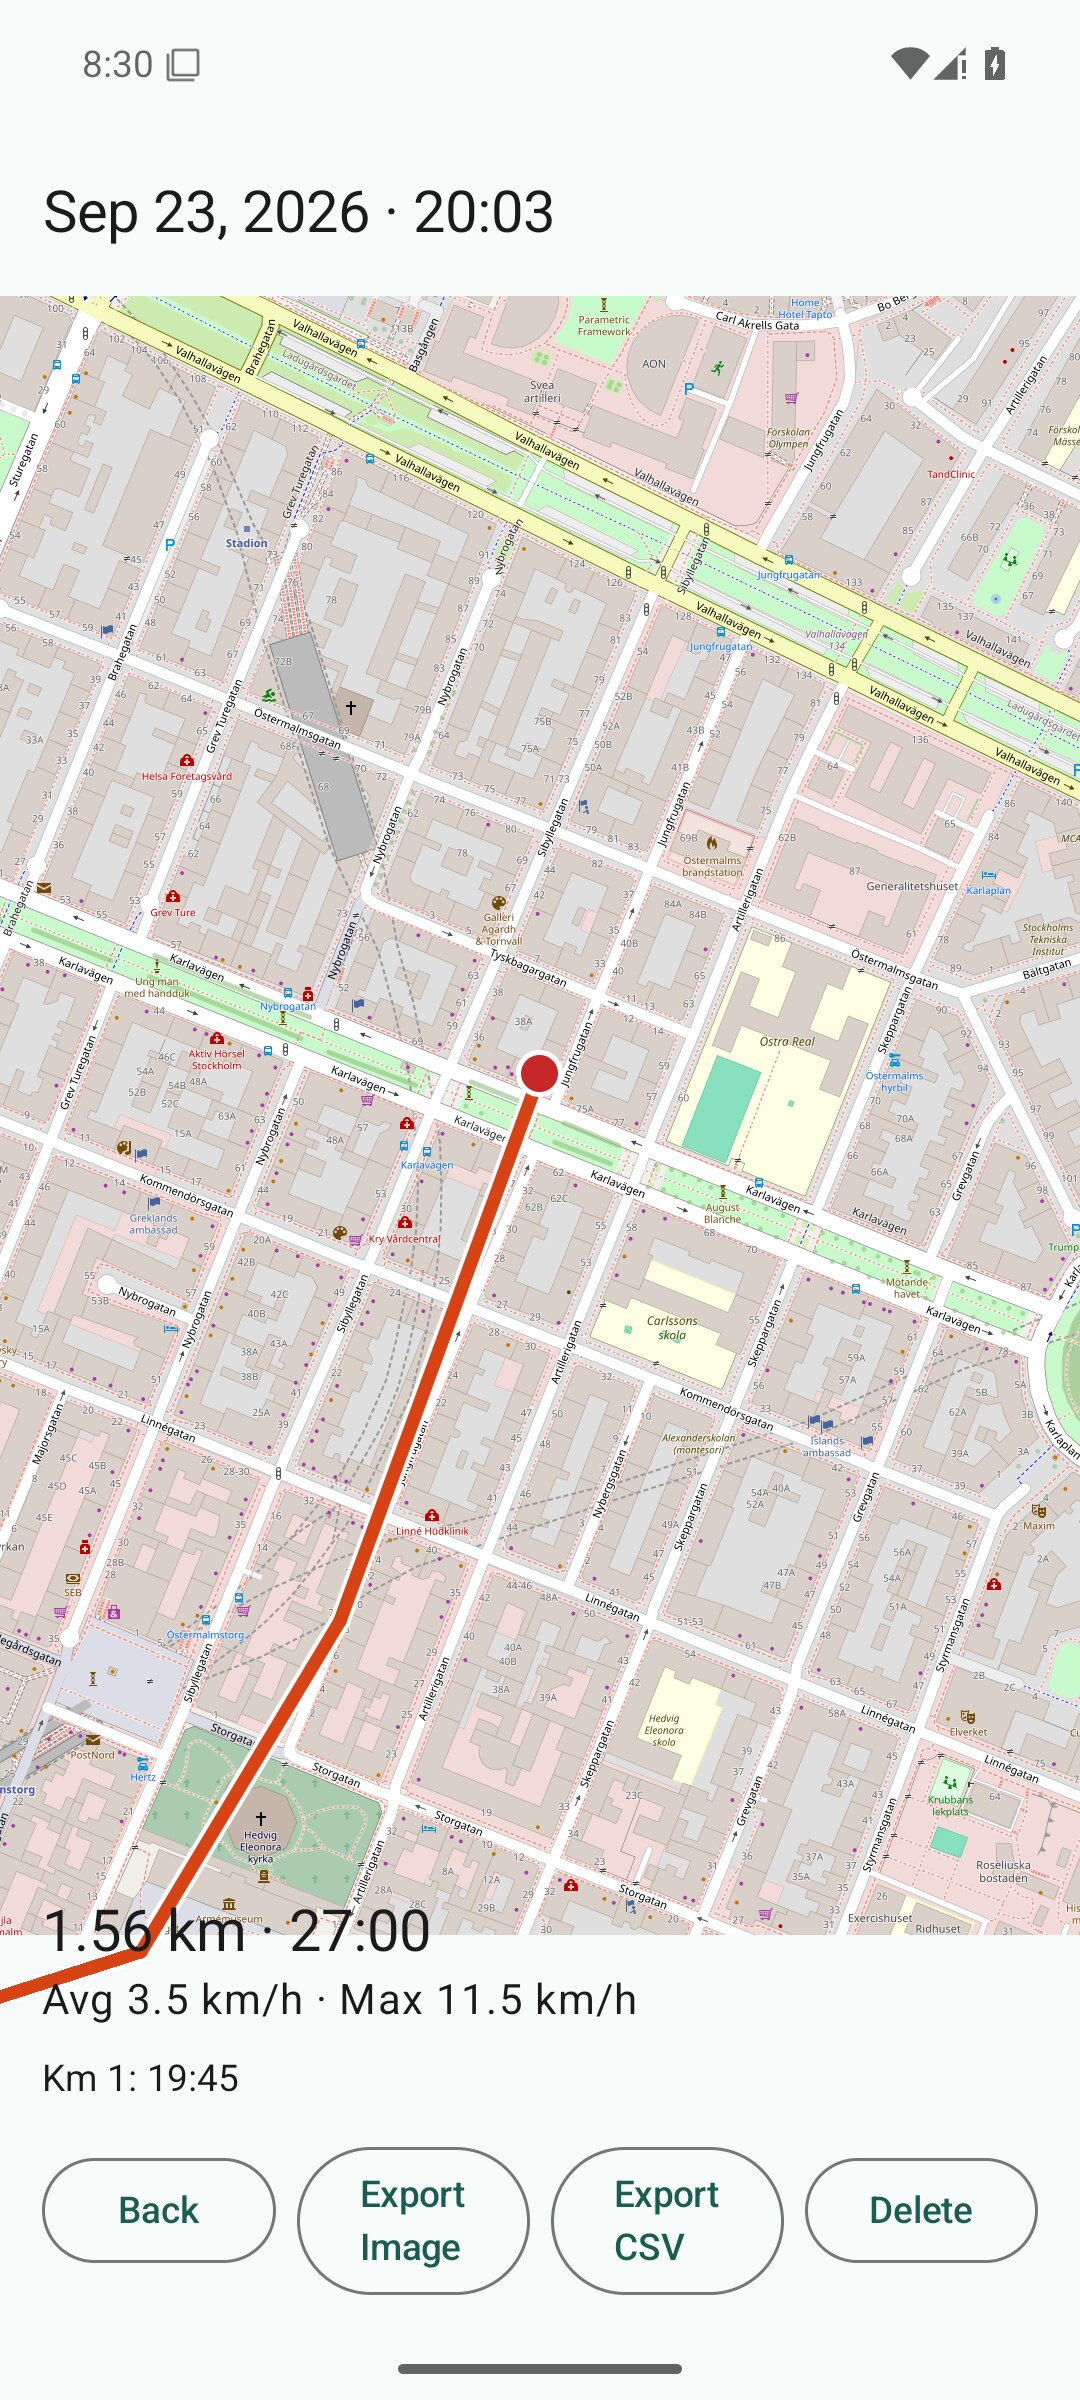
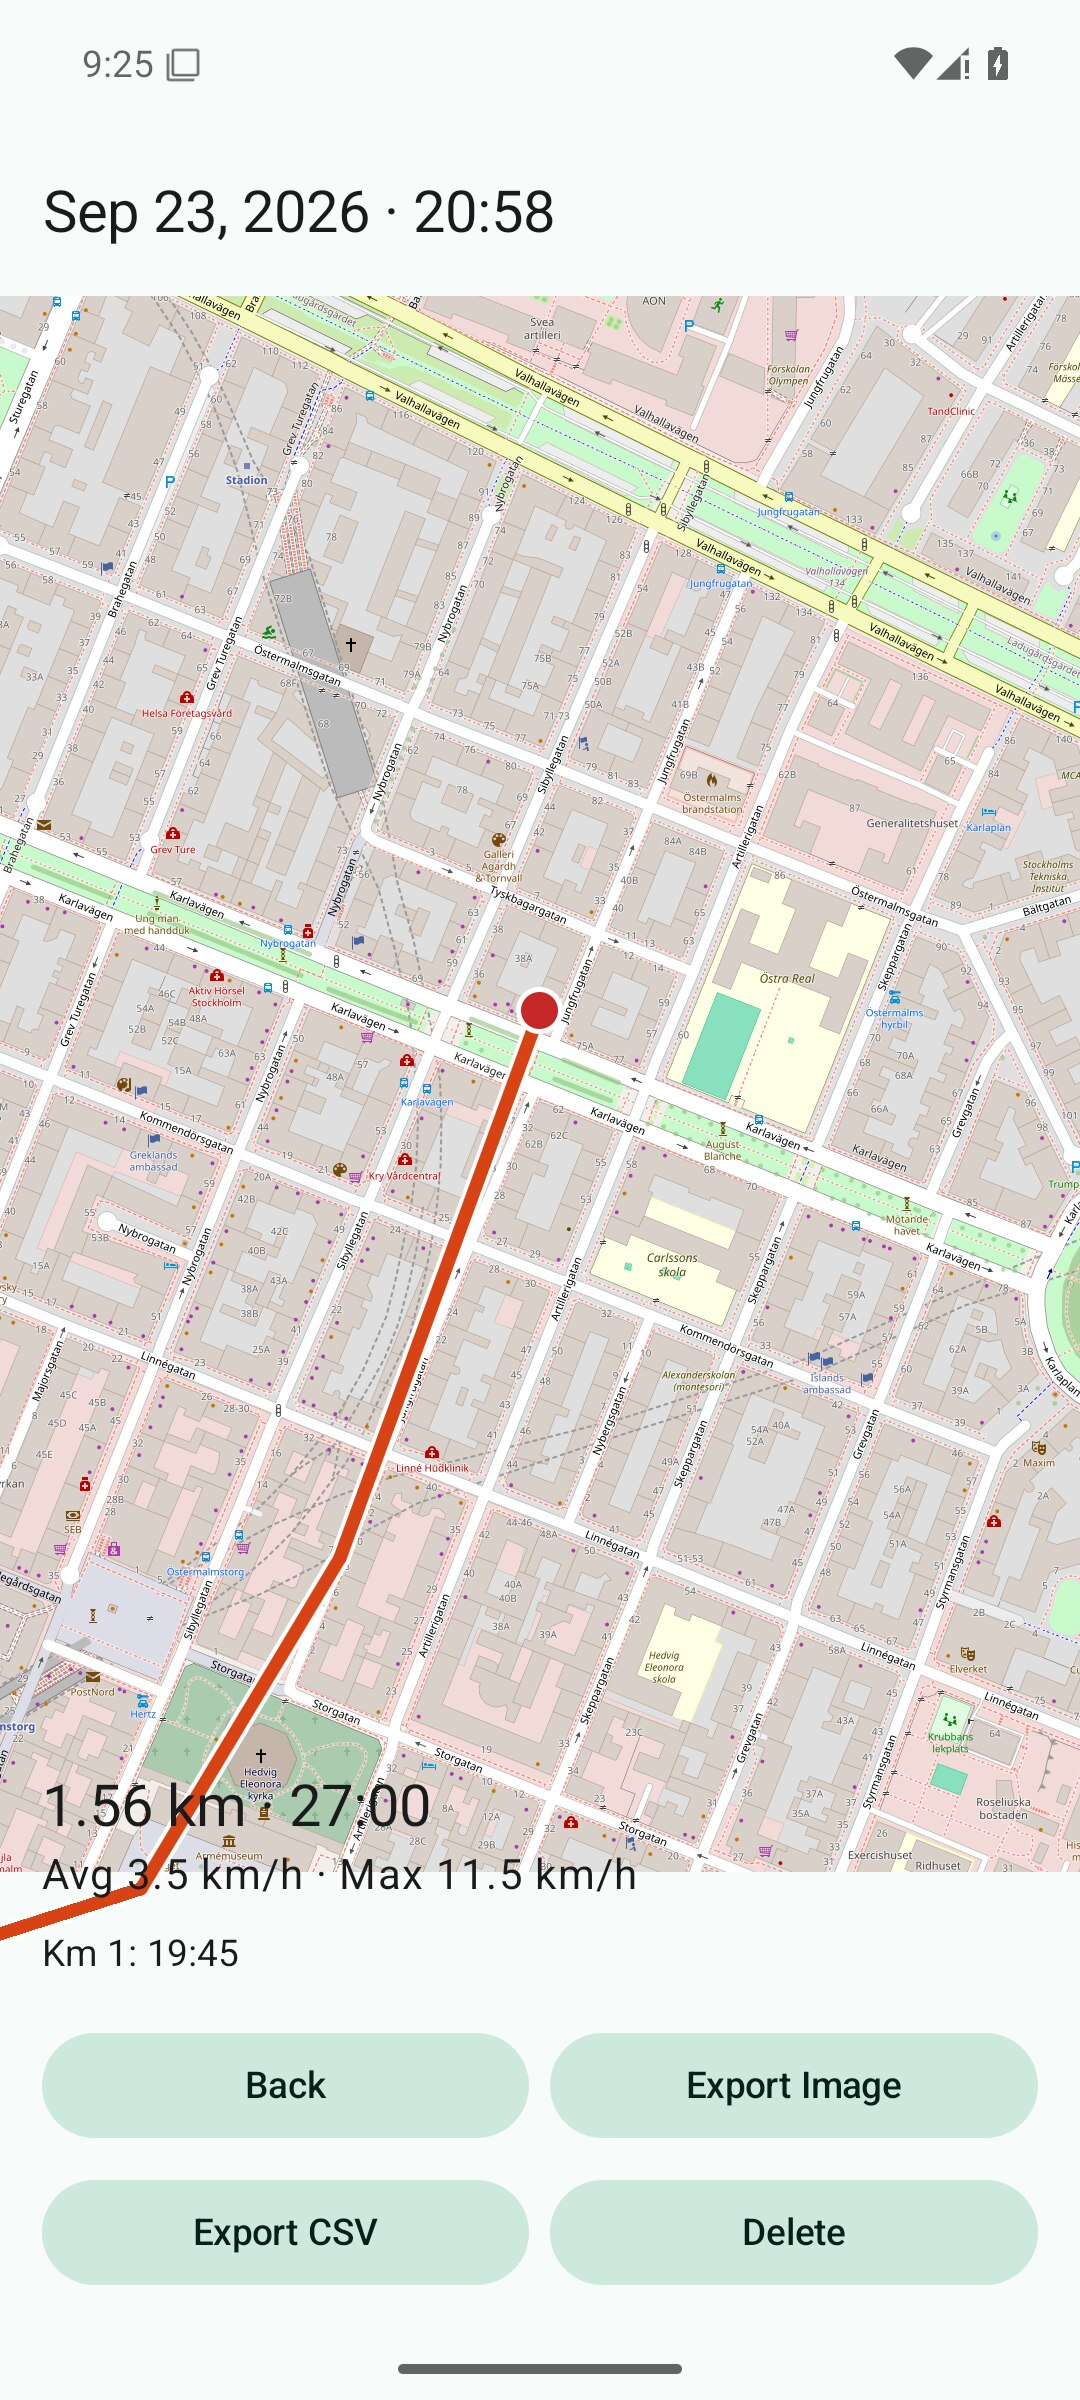
fix(android): fix Detail's button row on narrow screens
Four OutlinedButtons at weight(1f) in one Row left barely enough width
each for "Export Image"/"Export CSV" to fit without wrapping into an
unreadable stack on a narrow phone (reported at 320dp wide) — and
OutlinedButton's thin 1dp border was easy to miss against the map behind
it, reported as "no background behind the buttons."

Changed to a 2x2 grid (two Rows of two) so each button gets roughly half
the screen width instead of a quarter, comfortably fitting on one line
even at 320dp, and switched OutlinedButton to FilledTonalButton for a
clearly visible fill.

Verified on a local emulator at both the reported 320dp width (via `adb
shell wm size`/`wm density` overrides) and the emulator's normal ~411dp
width — clean, fully readable at both. Updated docs/screenshots/7-detail
and 8-detail-delete-confirm (and the matching Play listing copies) to the
corrected layout.

No spec change — this is a layout/visual detail, not a behavior change;
specs/ui-flows.md's "Back, Export Image, Export CSV, and Delete... in
that order" still holds for a 2x2 grid read left-to-right, top-to-bottom.

Fixes #60

diff --git a/android/app/src/main/java/com/github/tomasbjerre/wisp/ui/detail/DetailScreen.kt b/android/app/src/main/java/com/github/tomasbjerre/wisp/ui/detail/DetailScreen.kt
@@ -13,8 +13,8 @@ import androidx.compose.foundation.lazy.items
 import androidx.compose.material3.AlertDialog
 import androidx.compose.material3.Button
 import androidx.compose.material3.ExperimentalMaterial3Api
+import androidx.compose.material3.FilledTonalButton
 import androidx.compose.material3.MaterialTheme
-import androidx.compose.material3.OutlinedButton
 import androidx.compose.material3.Scaffold
 import androidx.compose.material3.Text
 import androidx.compose.material3.TextButton
@@ -139,23 +139,32 @@ private fun SessionSummaryPanel(
         if (kmSplitsSeconds.isNotEmpty()) {
             KmSplitsList(kmSplitsSeconds, modifier = Modifier.padding(top = 8.dp))
         }
-        Row(
+        // Two rows of two, not one row of four (see #60) — four equal-weight buttons in
+        // one row left barely enough width each for "Export Image"/"Export CSV" to fit
+        // without wrapping into an unreadable stack on a narrow phone. FilledTonalButton,
+        // not OutlinedButton: a visible fill reads as a button against the map behind it,
+        // where a thin outline alone did not.
+        Column(
             modifier = Modifier.fillMaxWidth().padding(top = 16.dp),
-            horizontalArrangement = Arrangement.spacedBy(8.dp),
+            verticalArrangement = Arrangement.spacedBy(8.dp),
         ) {
-            OutlinedButton(onClick = onBack, modifier = Modifier.weight(1f)) {
-                Text("Back")
+            Row(horizontalArrangement = Arrangement.spacedBy(8.dp)) {
+                FilledTonalButton(onClick = onBack, modifier = Modifier.weight(1f)) {
+                    Text("Back")
+                }
+                // See specs/export.md#single-activity-as-an-image.
+                FilledTonalButton(onClick = onExportImage, enabled = session != null, modifier = Modifier.weight(1f)) {
+                    Text("Export Image")
+                }
             }
-            // See specs/export.md#single-activity-as-an-image.
-            OutlinedButton(onClick = onExportImage, enabled = session != null, modifier = Modifier.weight(1f)) {
-                Text("Export Image")
-            }
-            // See specs/export.md#single-activity-as-csv.
-            OutlinedButton(onClick = onExportCsv, enabled = session != null, modifier = Modifier.weight(1f)) {
-                Text("Export CSV")
-            }
-            OutlinedButton(onClick = onDeleteClick, modifier = Modifier.weight(1f)) {
-                Text("Delete")
+            Row(horizontalArrangement = Arrangement.spacedBy(8.dp)) {
+                // See specs/export.md#single-activity-as-csv.
+                FilledTonalButton(onClick = onExportCsv, enabled = session != null, modifier = Modifier.weight(1f)) {
+                    Text("Export CSV")
+                }
+                FilledTonalButton(onClick = onDeleteClick, modifier = Modifier.weight(1f)) {
+                    Text("Delete")
+                }
             }
         }
     }
